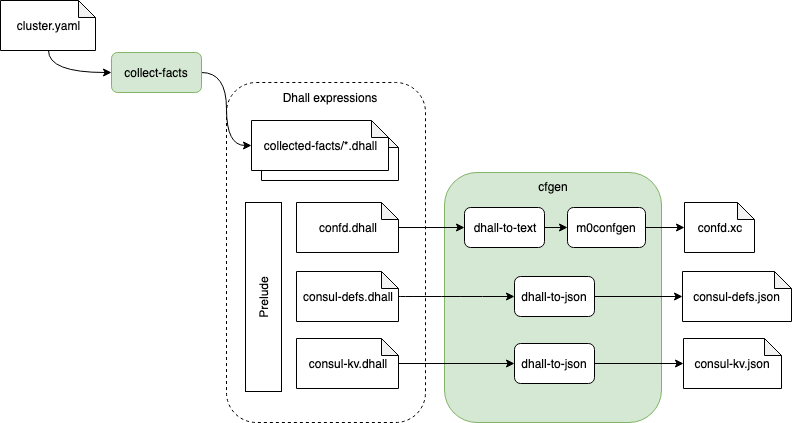
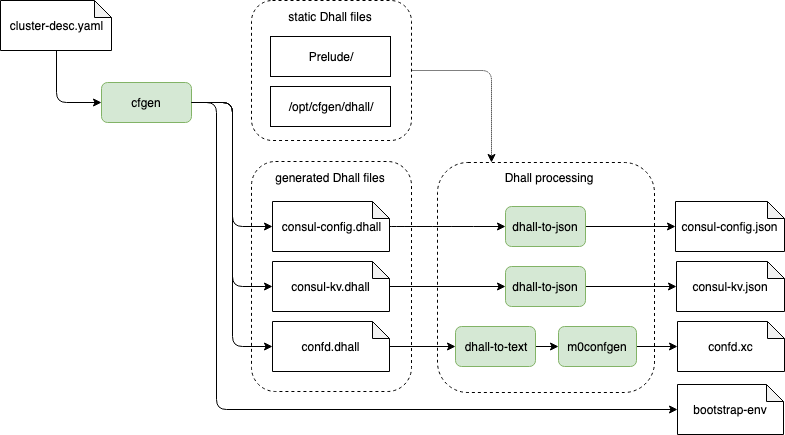
rfc (3/CFGEN): Update the diagram

diff --git a/rfc/3/README.md b/rfc/3/README.md
@@ -58,16 +58,17 @@ pools:
     #disks: all
 ```
 
-### `collect-facts`
+### `cfgen` script
 
 ```
-usage: collect-facts [-o <output-dir>] [--mock]
+usage: cfgen [-o <output-dir>] [--mock]
+
+Generate configuration data for Mero cluster.
 
 optional arguments:
   -h, --help     show this help message and exit
   --help-schema  show cluster description file schema
-  -o output-dir  directory to store generated files in (defaults to
-                 'collected-facts')
+  -o output-dir  output directory (defaults to '.')
   --mock         Generate pseudo-random "facts". The hosts specified in the
                  cluster description file will not be visited and don't even
                  have to exist.
@@ -77,36 +78,28 @@ The program reads cluster description in YAML format from the standard input;
 '--help-schema' option shows the schema.
 ```
 
-**collect-facts** ssh-es to the hosts mentioned in the cluster
-description file, collects "facts" about them (e.g.,
-`facter --json processors | jq .processors.count`, `facter memorysize_mb`)
-and saves that data locally as [Dhall](https://dhall-lang.org/) expressions
-(`collected-facts/*.dhall`).
+**cfgen** reads cluster description file from stdin, ssh-es to the
+hosts mentioned in it, collects their "facts" (e.g., number of CPUs,
+RAM size), and uses that information to generate configuration data.
 
-### `cfgen`
+### Output files
 
-**cfgen** performs Dhall processing and generates the following files:
-
-  * `consul-nodes` -- tells [`bootstrap`](rfc/6/README.md) script
+  * `bootstrap-env` -- tells [`bootstrap`](rfc/6/README.md) script
     where Consul server and client agents should be started.
 
     Format:
     ```
-    [servers]
-    hostname
-    hostname
-    hostname
-
-    [clients]
-    hostname
-    hostname
+    consul_server_nodes=host1,host2,host3
+    consul_client_nodes=host4,host5
 
     # Comments start with a hash symbol and run to the end of the line.
     ```
 
-  * `consul-services.json` -- Consul services and
-    [watches](https://www.consul.io/docs/agent/watches.html)
-    definitions.
+  * `consul-config_<hostname>.json` -- Consul
+    [configuration files](https://www.consul.io/docs/agent/options.html#configuration-files),
+    one for each node.  These files contain definitions of
+    [services](https://www.consul.io/docs/agent/services.html) and
+    [checks](https://www.consul.io/docs/agent/checks.html).
 
   * `consul-kv.json` -- key/value pairs in JSON format, ready to be
     consumed by
